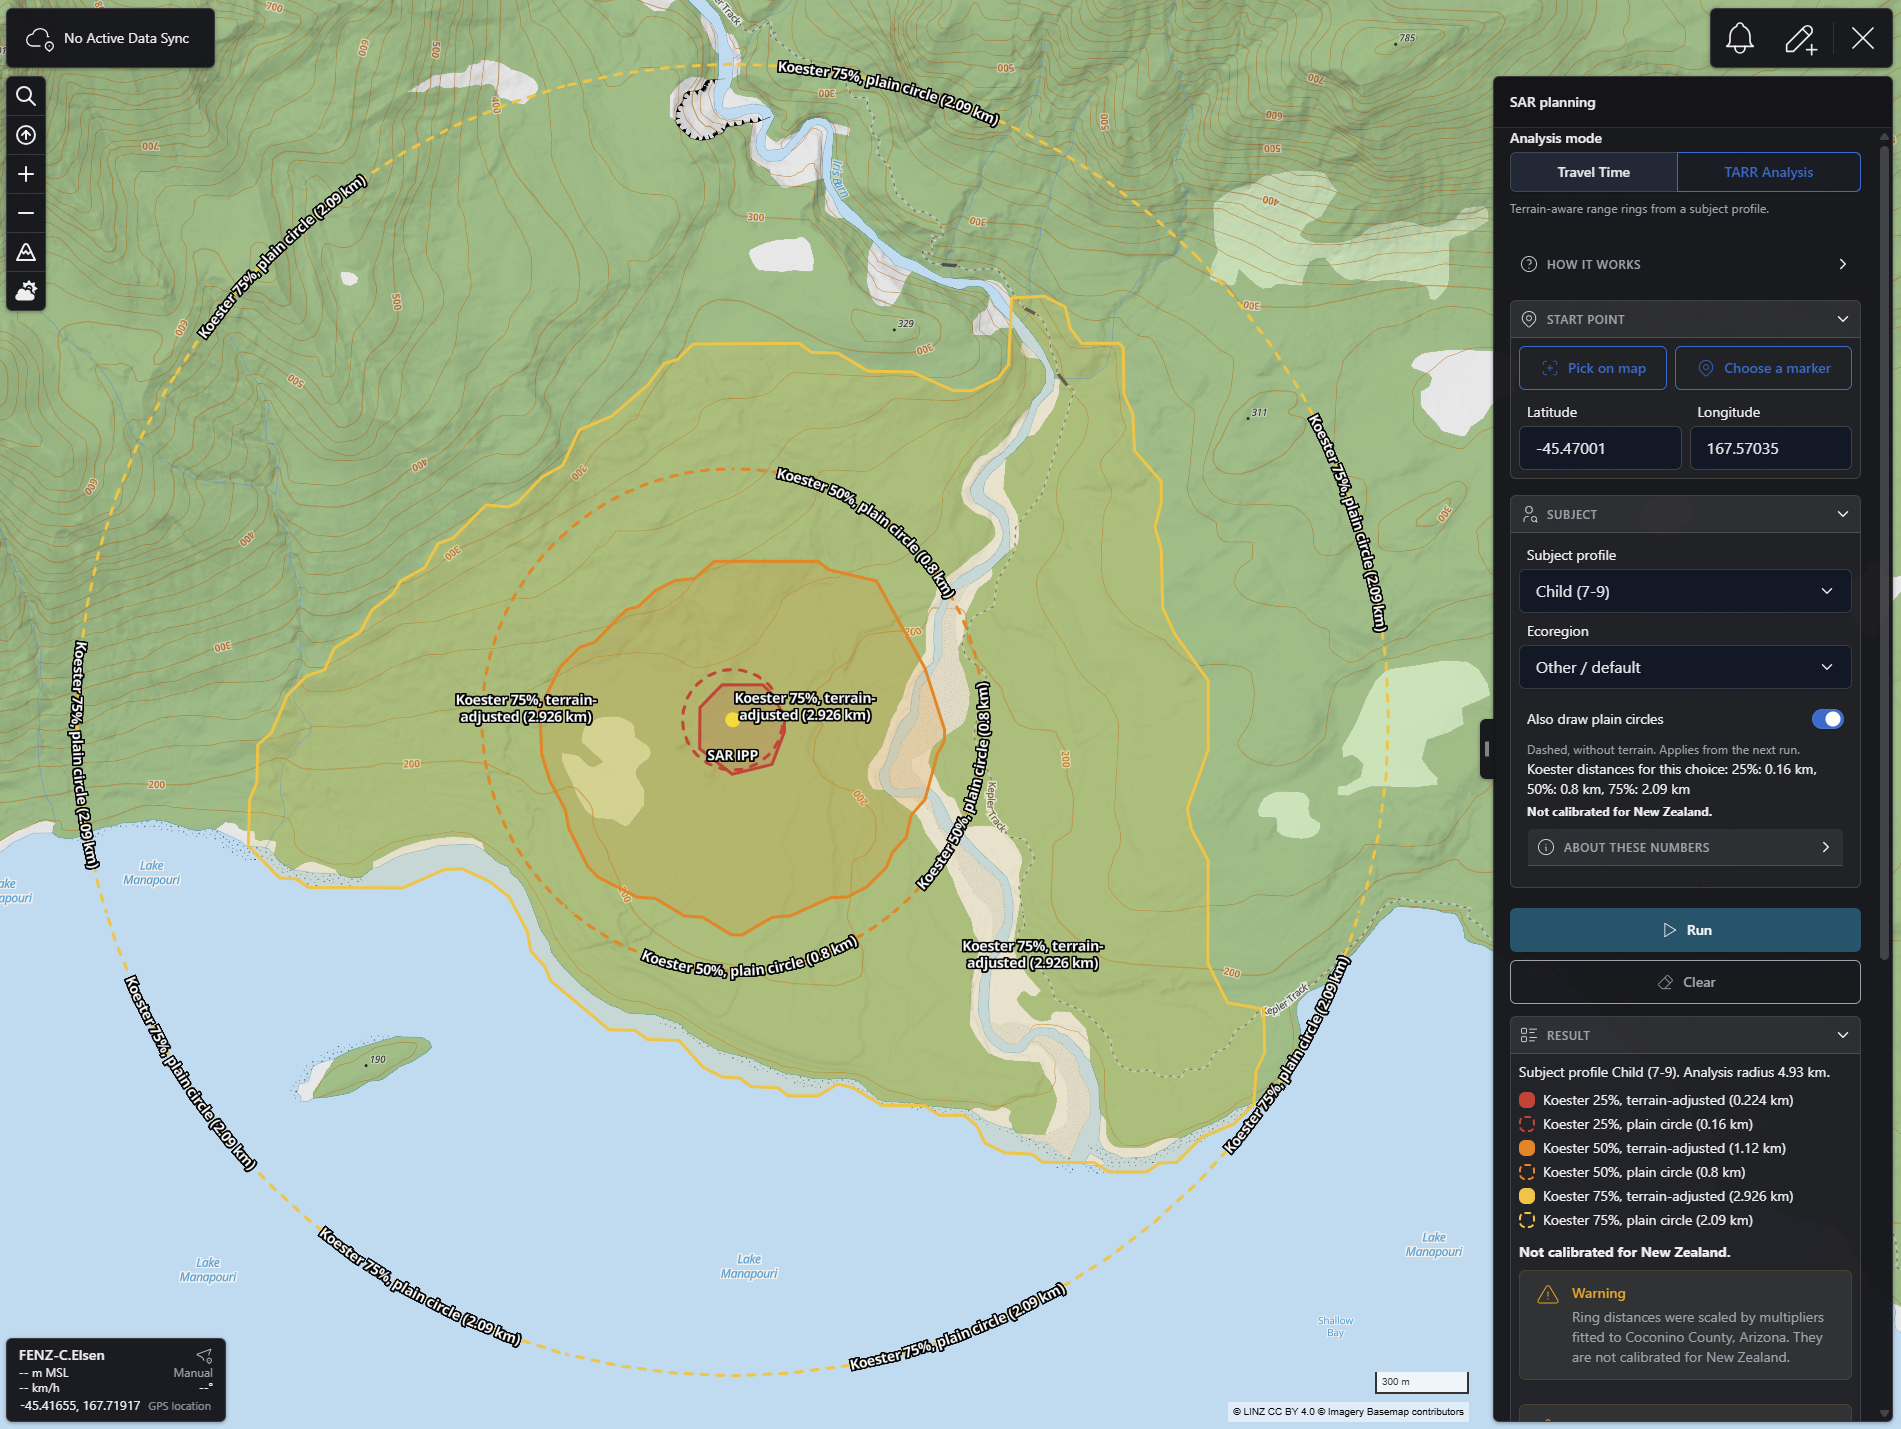
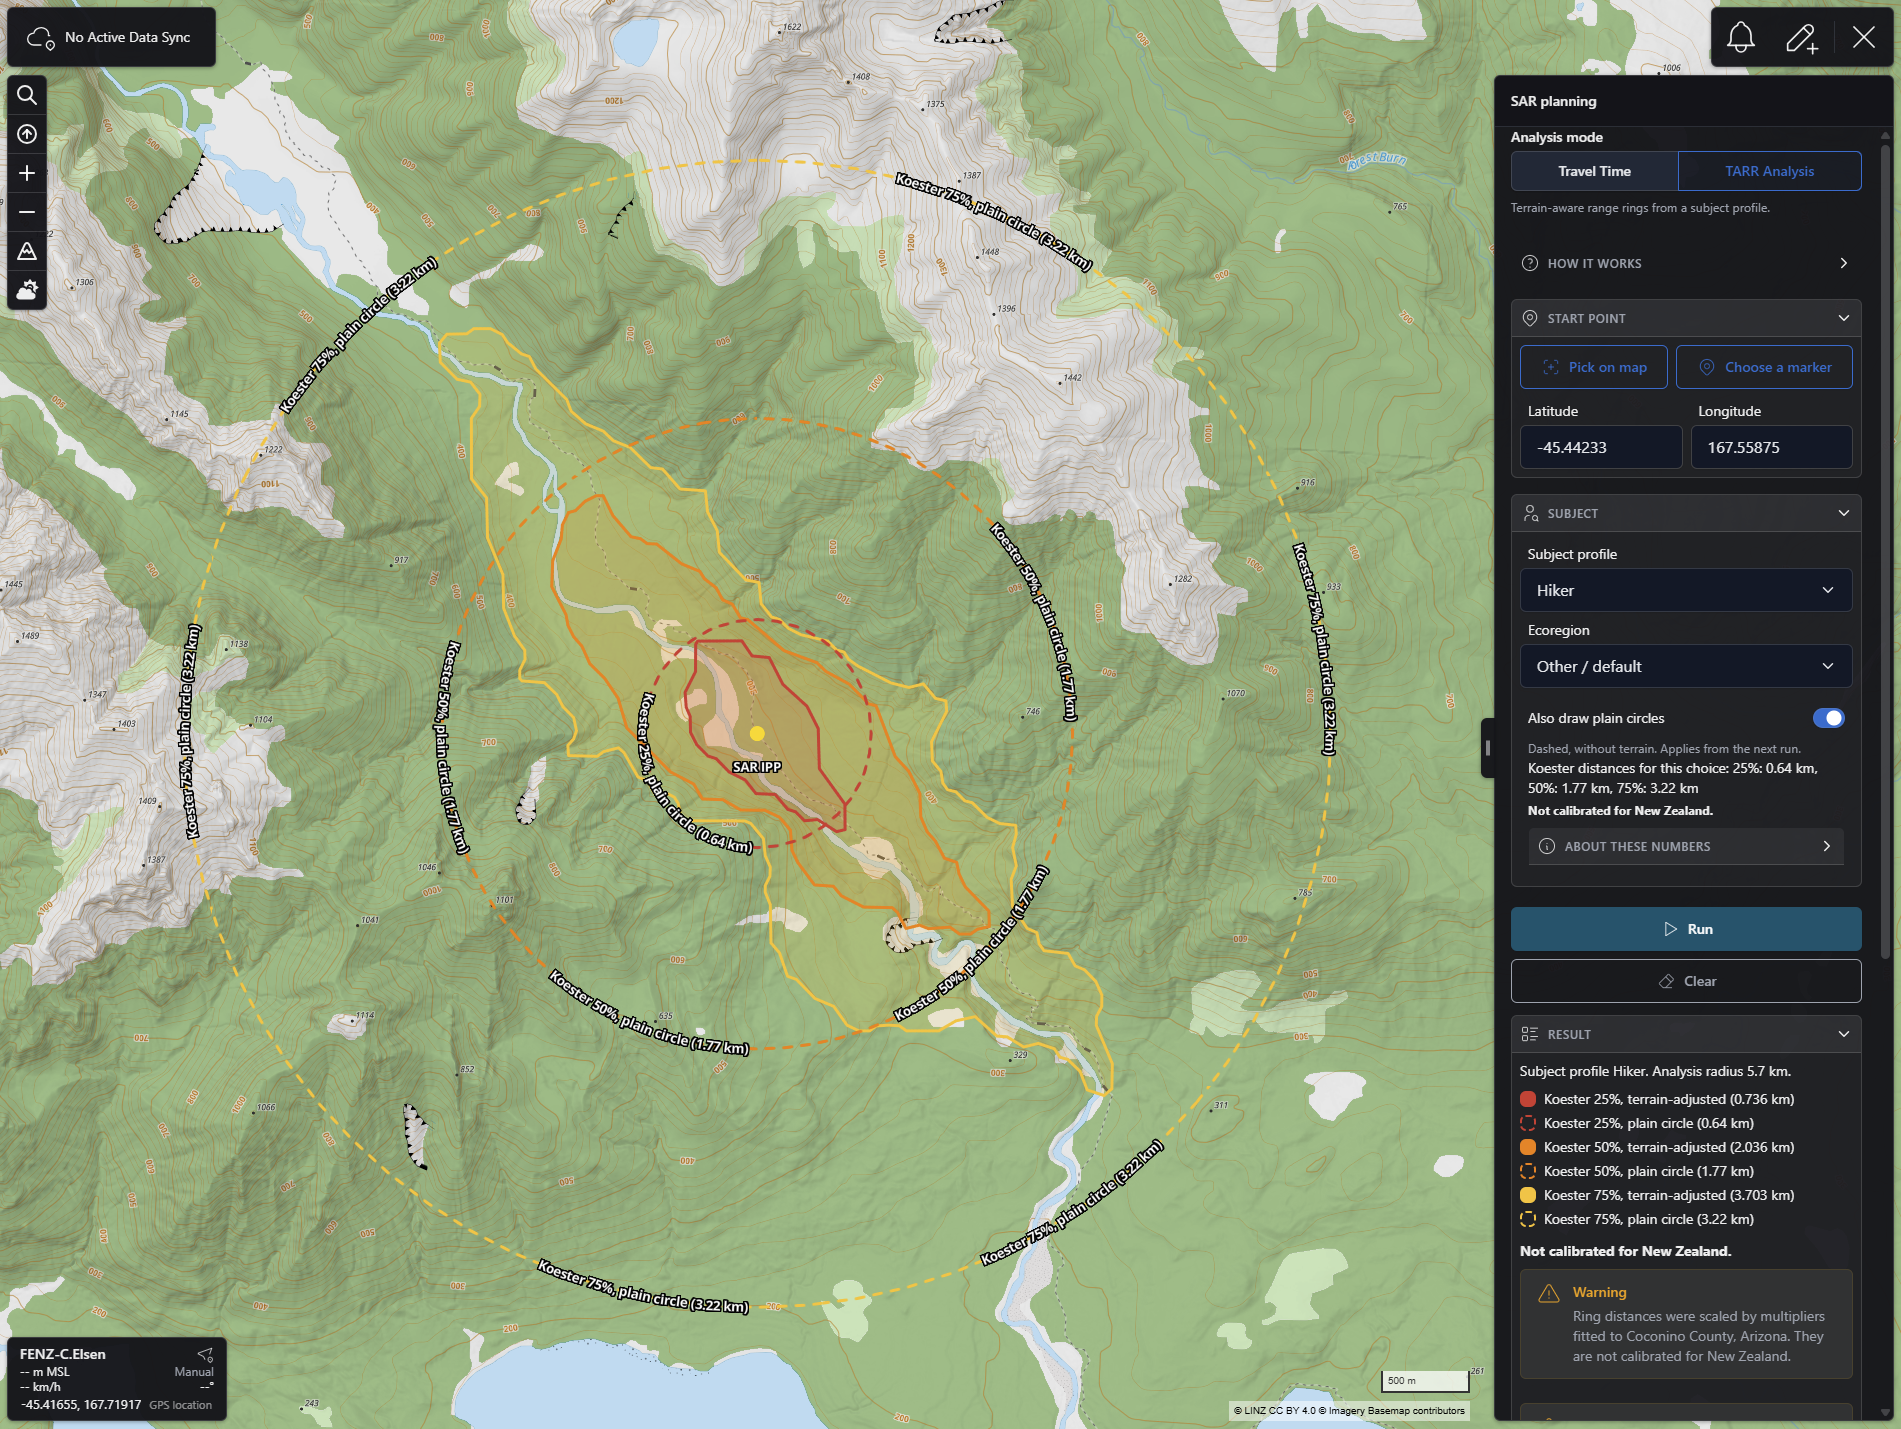
docs: update the TARR screenshot
The new screenshot shows a Hiker profile with the labels of the plain circles on their lines.
The README caption is updated to match.

diff --git a/README.md b/README.md
@@ -106,7 +106,7 @@ See [NOTICE](NOTICE).
 This is a planning aid. Travel Time shows reach, not where a person is. TARR rings are not calibrated for New Zealand: the distances and the multipliers come from United States records, the terrain model has not been checked against New Zealand search and rescue data, and the percentages are not the chance of finding someone in New Zealand. Use the results as one input among many, with the judgment of search planners and incident command.
 
 ## Screenshots
-The SAR planning pane in TARR Analysis mode, opened from the right-side menu, with a result on the map for a Child (7-9) profile. Each terrain-adjusted ring is filled and each plain Koester circle is dashed. The pane lists the rings, the "Not calibrated for New Zealand" line and the engine's warning. The collapsible boxes (How it works, About these numbers) are closed.
+The SAR planning pane in TARR Analysis mode, opened from the right-side menu, with a result on the map for a Hiker profile. Each terrain-adjusted ring is filled and each plain Koester circle is dashed and named along its line. The pane lists the rings, the "Not calibrated for New Zealand" line and the engine's warning. The collapsible boxes (How it works, About these numbers) are closed.
 
 ![SAR planning pane in TARR Analysis mode with terrain-adjusted rings and plain circles on the map](docs/screenshots/cloudtak-plugin-sar-tarr.png)
 
